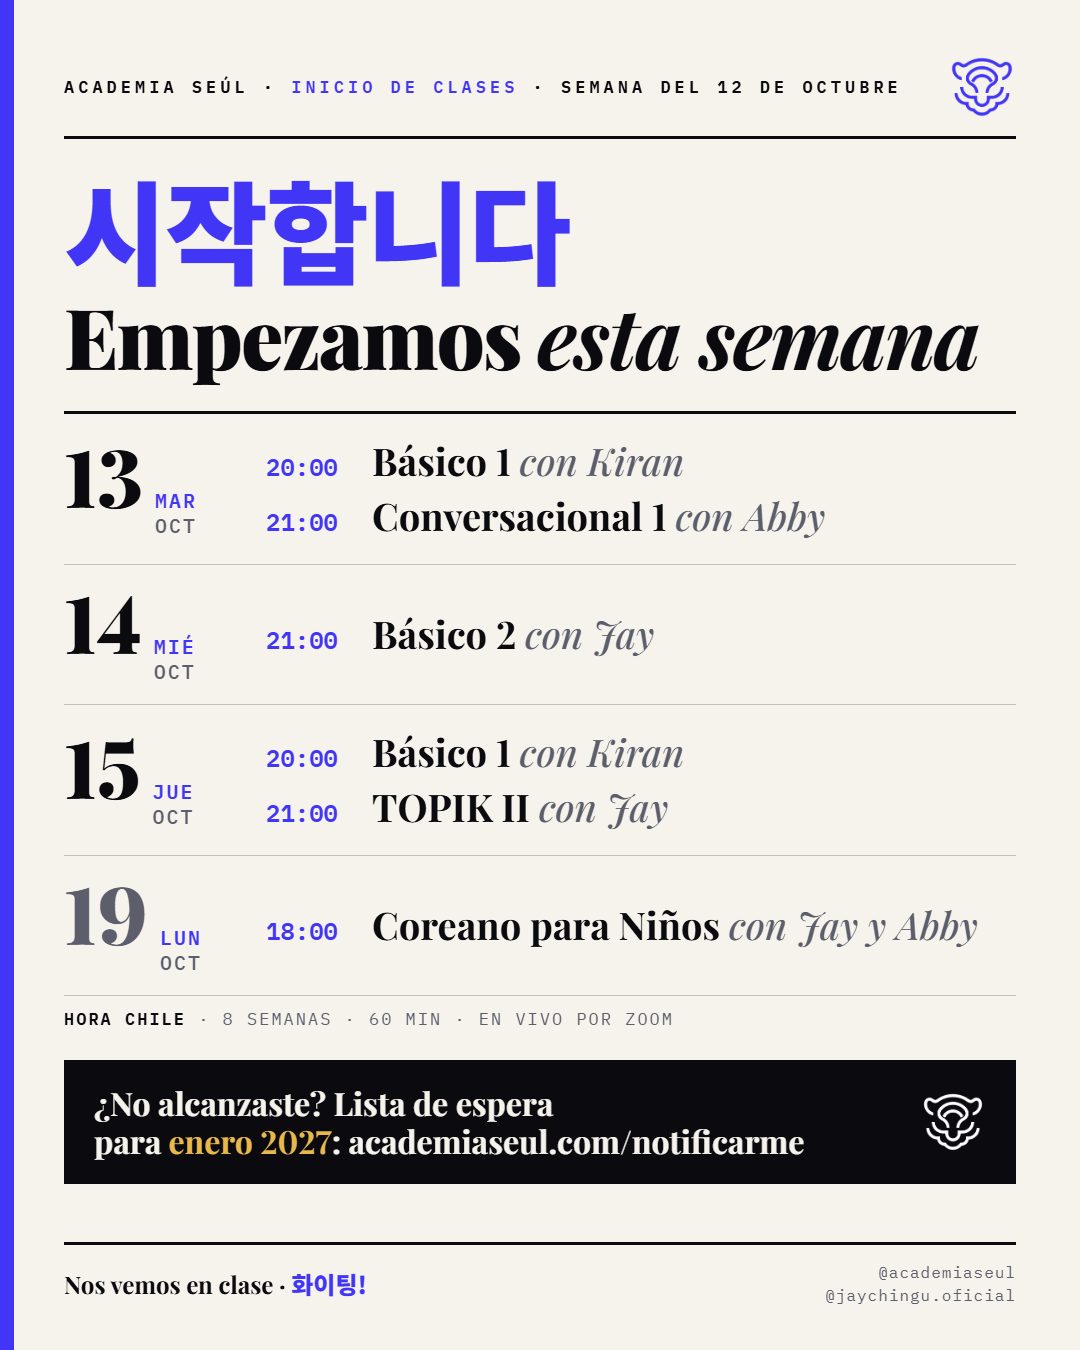
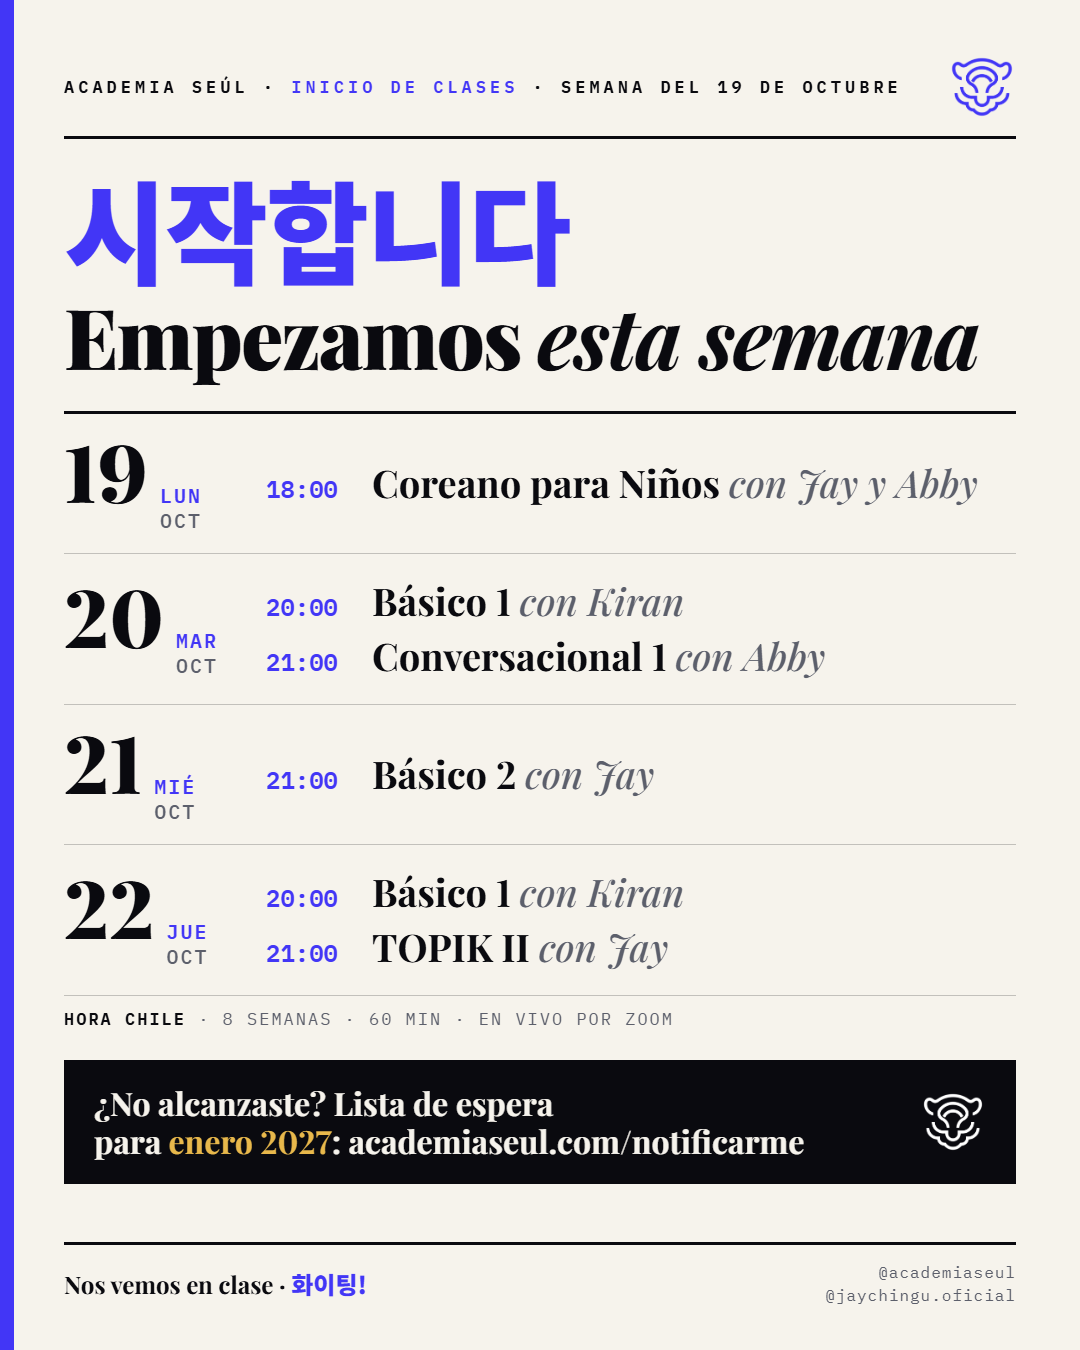
Instagram: cuenta regresiva al domingo 18 (09d, 09e, 09b, 09f), Empezamos con las fechas nuevas y plan del vie 16 al lun 19

diff --git a/Lanzamiento_Octubre_2026/fuente/make_disenos_octubre.js b/Lanzamiento_Octubre_2026/fuente/make_disenos_octubre.js
@@ -463,12 +463,13 @@ const clasesCSS = `
   .cl .p { font-size: 25px; font-style: italic; color: var(--muted); text-align: right; white-space: nowrap; }
   .cl .hc { font-family: 'IBM Plex Mono', monospace; font-size: 16px; color: var(--muted); letter-spacing: 2px; text-transform: uppercase; padding: 8px 0 0; border: 0; display: block; }
 `;
-const clasesHTML = () => `<div class="cl">${CLASES.map((c) => `<div><div class="dh">${c.dia} <span>${c.hora}</span></div>
+const clasesHTML = (lista = CLASES) => `<div class="cl">${lista.map((c) => `<div><div class="dh">${c.dia} <span>${c.hora}</span></div>
   <div class="c">${c.curso}<small>${c.nivel}</small>${c.nota ? `<span class="nt">${c.nota}</span>` : ""}</div><div class="p">${c.profe}</div></div>`).join("")}
   <div class="hc">hora Chile (UTC−3) · 8 semanas · 60 min · certificado incluido</div></div>`;
 
 // ttl: titular de 2 líneas (la 2.ª en cursiva azul). Variantes del 7 oct: cuenta regresiva jue 8 → sáb 10.
-function cierre(ttl = "ÚLTIMOS<br><em>DÍAS</em>") {
+// cuando/lista: la matrícula extendida (cierre dom 18, todas las clases desde la semana del 19) usa cierre(ttl, "domingo 18 · 23:59", CLASES_19)
+function cierre(ttl = "ÚLTIMOS<br><em>DÍAS</em>", cuando = "domingo 11 · 23:59", lista = CLASES) {
   const css = clasesCSS + `
   .ttl { font-family: 'Playfair Display', serif; font-weight: 900; font-size: 150px; line-height: 1.04; letter-spacing: -4px; margin: 56px 0 0; }
   .ttl em { font-style: italic; color: ${AZUL}; }
@@ -486,15 +487,15 @@ function cierre(ttl = "ÚLTIMOS<br><em>DÍAS</em>") {
   const body = `
   ${top("Matrícula", "Octubre 2026")}
   <h1 class="ttl">${ttl}</h1>
-  <div class="when">La matrícula de octubre cierra el<br><span class="nw"><span>domingo 11 · 23:59</span> <small>(Chile)</small></span></div>
-  ${clasesHTML()}
+  <div class="when">La matrícula de octubre cierra el<br><span class="nw"><span>${cuando}</span> <small>(Chile)</small></span></div>
+  ${clasesHTML(lista)}
   <div class="fee"><div class="a"><span>US$150</span> el curso completo · o 2 cuotas de <span>US$75</span></div></div>
   <div class="url"><div class="u">academiaseul.com/inscribete</div></div>`;
   return doc({ story: true, css, body });
 }
 
 // ttl/size: "ÚLTIMAS HORAS" (dom 11 en la noche) usa un titular más chico para que quepa en una línea por palabra
-function hoyCierra(ttl = "HOY<br><em>CIERRA</em>", size = 196) {
+function hoyCierra(ttl = "HOY<br><em>CIERRA</em>", size = 196, fecha = "Domingo 11 de octubre", lista = CLASES) {
   const css = clasesCSS + `
   .ttl { font-family: 'Playfair Display', serif; font-weight: 900; font-size: ${size}px; line-height: .9; letter-spacing: -5px; margin: 44px 0 0; }
   .ttl em { font-style: italic; color: ${GOLD2}; }
@@ -506,10 +507,10 @@ function hoyCierra(ttl = "HOY<br><em>CIERRA</em>", size = 196) {
   .bio svg { width: 54px; height: 54px; flex: none; }
   `;
   const body = `
-  ${top("Matrícula", "Domingo 11 de octubre")}
+  ${top("Matrícula", fecha)}
   <h1 class="ttl">${ttl}</h1>
   <div class="when"><div class="h">23:59</div><div class="z">hora Chile${size < 196 ? " · cierra hoy" : ""}</div></div>
-  ${clasesHTML()}
+  ${clasesHTML(lista)}
   <div class="bio"><div class="t">Link en la bio</div><svg data-deco viewBox="0 0 24 24" fill="none" stroke="${PAPER}" stroke-width="2.6" stroke-linecap="square"><path d="M12 21V4M5 11l7-7 7 7"/></svg></div>`;
   return doc({ story: true, css, body, dark: true });
 }
@@ -519,10 +520,10 @@ function hoyCierra(ttl = "HOY<br><em>CIERRA</em>", size = 196) {
 // ════════════════════════════════════════════════════════════════════════
 function empezamos() {
   const SEM = [
-    { dow: "mar", n: "13", clases: [["20:00", "Básico 1", "con Kiran"], ["21:00", "Conversacional 1", "con Abby"]] },
-    { dow: "mié", n: "14", clases: [["21:00", "Básico 2", "con Jay"]] },
-    { dow: "jue", n: "15", clases: [["20:00", "Básico 1", "con Kiran"], ["21:00", "TOPIK II", "con Jay"]] },
     { dow: "lun", n: "19", clases: [["18:00", "Coreano para Niños", "con Jay y Abby"]] },
+    { dow: "mar", n: "20", clases: [["20:00", "Básico 1", "con Kiran"], ["21:00", "Conversacional 1", "con Abby"]] },
+    { dow: "mié", n: "21", clases: [["21:00", "Básico 2", "con Jay"]] },
+    { dow: "jue", n: "22", clases: [["20:00", "Básico 1", "con Kiran"], ["21:00", "TOPIK II", "con Jay"]] },
   ];
   const css = `
   .ko { font-family: 'Noto Sans KR', sans-serif; font-weight: 900; font-size: 112px; line-height: 1.05; color: ${AZUL}; margin-top: 30px; letter-spacing: -2px; }
@@ -549,10 +550,10 @@ function empezamos() {
   .foot .cta .kr { font-family: 'Noto Sans KR', sans-serif; font-weight: 900; color: ${AZUL}; }
   `;
   const body = `
-  ${top("Inicio de clases", "Semana del 12 de octubre")}
+  ${top("Inicio de clases", "Semana del 19 de octubre")}
   <div class="ko">시작합니다</div>
   <h1 class="ttl">Empezamos <em>esta semana</em></h1>
-  <div class="wk">${SEM.map((s, i) => `<div class="${i === 3 ? "nx" : ""}"><div class="d"><div class="n">${s.n}</div><div class="w">${s.dow}<span>oct</span></div></div>
+  <div class="wk">${SEM.map((s) => `<div><div class="d"><div class="n">${s.n}</div><div class="w">${s.dow}<span>oct</span></div></div>
     <div class="cs">${s.clases.map((c) => `<div><div class="h">${c[0]}</div><div class="c">${c[1]} <span>${c[2]}</span></div></div>`).join("")}</div></div>`).join("")}</div>
   <div class="hc"><b>hora Chile</b> · 8 semanas · 60 min · en vivo por Zoom</div>
   <div class="espera"><div class="a">¿No alcanzaste? Lista de espera<br>para <span>enero 2027</span>: academiaseul.com/notificarme</div>${sello("wseal")}</div>
@@ -635,6 +636,11 @@ function unaSemanaMasFeed() {
 // ─── lista de diseños ───
 const DISENOS = [
   { file: "08_una_semana_mas_story.png", story: true, html: unaSemanaMasStory() },
+  // cuenta regresiva de la matrícula extendida (cierre dom 18 oct)
+  { file: "09d_quedan_2_dias_18_story.png", story: true, html: cierre("QUEDAN<br><em>2 DÍAS</em>", "domingo 18 · 23:59", CLASES_19) },
+  { file: "09e_manana_cierra_18_story.png", story: true, html: cierre("MAÑANA<br><em>CIERRA</em>", "domingo 18 · 23:59", CLASES_19) },
+  { file: "09b_hoy_cierra_18_story.png", story: true, html: hoyCierra("HOY<br><em>CIERRA</em>", 196, "Domingo 18 de octubre", CLASES_19) },
+  { file: "09f_ultimas_horas_18_story.png", story: true, html: hoyCierra("ÚLTIMAS<br><em>HORAS</em>", 168, "Domingo 18 de octubre", CLASES_19) },
   { file: "08_una_semana_mas.png", story: false, html: unaSemanaMasFeed() },
   { file: "00_chuseok_story.png", story: true, html: chuseok() },
   { file: "01_reto_leocoreanoen7dias.png", story: false, html: retoFeed() },

diff --git a/Plan_Instagram_16al19oct_2026.md b/Plan_Instagram_16al19oct_2026.md
@@ -1,0 +1,77 @@
+# Plan de Instagram y TikTok · vie 16 → lun 19 de octubre de 2026
+
+Horas de Chile. **Manda sobre `Plan_Instagram_7al12oct_2026.md`** desde el 16 de octubre: la matrícula se corrió una semana (cierra el **domingo 18 a las 23:59**) y todas las clases empiezan la **semana del 19 de octubre** (Niños lun 19 · Básico 1 mar 20 y jue 22 · Conversacional 1 mar 20 · Básico 2 mié 21 · TOPIK II jue 22).
+
+Las piezas viejas de cuenta regresiva (`05b`–`05f`) dicen «domingo 11»: **no las uses**. Las nuevas son `09d`, `09e`, `09b` y `09f`, en `Campana_Assets/instagram/octubre/`. Todas las historias llevan el sticker de link `Inscribirme` → `https://www.academiaseul.com/inscribete`.
+
+## Vista rápida
+
+| Día | Feed | Historias | TikTok |
+|---|---|---|---|
+| **Vie 16** | `08_una_semana_mas.png`, si no lo subiste el lunes (fíjalo) | 12:30 `09d_quedan_2_dias_18_story.png` · 20:00 artículo «tu nombre en coreano» | El post `08` en modo foto |
+| **Sáb 17** | — | 12:30 `09e_manana_cierra_18_story.png` · 20:00 reel de Kiran + texto | Reel de Kiran (si no está) |
+| **Dom 18** · CIERRE | — | 10:00 `09b_hoy_cierra_18_story.png` · 16:00 WhatsApp · 19:00 `09f_ultimas_horas_18_story.png` · 22:30 `09f` + «Hora y media ⏳» | — |
+| **Lun 19** | 19:30 `06_empezamos_esta_semana.png`, solo con las clases que abrieron | 10:00 bienvenida | — |
+
+## Vie 16
+
+**Feed** (solo si no subiste el `08` el lunes): el caption está en el plan del 12 de octubre (sección del lunes). Fíjalo.
+
+**Historias**
+- 12:30 · `09d_quedan_2_dias_18_story.png` + `Inscribirme`.
+- 20:00 · captura del artículo nuevo del blog con el texto `¿Cómo se escribe tu nombre en coreano? 👇` + sticker de link → `https://www.academiaseul.com/blog/como-escribir-tu-nombre-en-coreano`. Agrega una encuesta: `¿Ya sabías el tuyo? Sí / No`.
+
+**TikTok** (modo foto con el `08`):
+```
+Abrimos una semana más 🇰🇷 Clases de coreano en vivo por Zoom desde el 19 de octubre. Matrícula hasta el domingo 18: academiaseul.com/inscribete #aprendecoreano #coreanodesdecero #academiaseul #한국어
+```
+
+## Sáb 17
+
+**Historias**
+- 12:30 · `09e_manana_cierra_18_story.png` + `Inscribirme`.
+- 20:00 · comparte el reel de Kiran con el texto `Básico 1 desde cero con Kiran · martes 20 · 20:00 (hora de Chile)` + `Inscribirme` → `https://www.academiaseul.com/inscribete?clase=a11-martes`.
+
+**TikTok**, si el reel de Kiran todavía no está ahí:
+```
+Ella es Kiran, tu profe de coreano desde cero 🇰🇷🇦🇷 Empezamos el martes 20 de octubre, en vivo por Zoom. Inscripción hasta el domingo 18: academiaseul.com/inscribete #aprendecoreano #coreanodesdecero #academiaseul #한국어
+```
+
+## Dom 18 · cierre a las 23:59 (sin feed)
+
+| Hora | Pieza | Texto encima | Link |
+|---|---|---|---|
+| 10:00 | `09b_hoy_cierra_18_story.png` | (ya dice todo) | `Inscribirme` |
+| 16:00 | fondo azul o el reel de Kiran | `¿Dudas de último minuto? Escríbeme 👇` | `WhatsApp` → `https://wa.me/56942115562` |
+| 19:00 | `09f_ultimas_horas_18_story.png` | (ya dice todo) | `Inscribirme` |
+| 22:30 | `09f_ultimas_horas_18_story.png` | `Hora y media ⏳` | `Inscribirme` |
+
+- [ ] Noche: revisión clase por clase (mínimo 3). Con eso se decide el post del lunes y qué clases parten.
+
+## Lun 19
+
+- [ ] 19:30 · feed `06_empezamos_esta_semana.png` **solo si abren las clases que muestra** (si alguna no abre, avísame y lo rehago con las que sí). Caption:
+```
+시작합니다 · Empezamos esta semana 🐯
+
+Lun 19 · 18:00 · Coreano para Niños con Jay y Abby
+Mar 20 · 20:00 · Básico 1 con Kiran · 21:00 · Conversacional 1 con Abby
+Mié 21 · 21:00 · Básico 2 con Jay
+Jue 22 · 20:00 · Básico 1 con Kiran · 21:00 · TOPIK II con Jay
+
+Gracias a cada persona que se sumó 💙 Nos vemos en clase. 화이팅!
+¿No alcanzaste? Lista de espera para enero 2027: academiaseul.com/notificarme
+
+#academiaseul #aprendecoreano #coreanoparalatinos #한국어
+```
+- [ ] 10:00 · historia: `Bienvenidos a las clases de octubre 💙 Revisen su correo: ahí está todo para su primera clase.`
+- [ ] Sitio a lista de espera: decisión tuya, después del cierre del domingo.
+
+## Contenido del blog para las próximas semanas (historias con link)
+
+Los 5 artículos nuevos (15 oct) sirven como historias entre semana, una por día, con sticker de link:
+- **Pepero Day** · `/blog/pepero-day-11-de-noviembre-en-corea`: subir la semana del 9 de noviembre (el 11/11).
+- **수능** · `/blog/suneung-el-dia-que-corea-se-detiene`: subir el miércoles 18 o el jueves 19 de noviembre.
+- **15 frases de K-drama** · `/blog/frases-de-kdrama-en-coreano`: cualquier día, con encuesta «¿Cuál usas más?».
+- **Números en coreano** · `/blog/numeros-en-coreano-dos-sistemas`: con un quiz de historia («¿Cómo se dice 3:30 en coreano?»).
+- **Tu nombre en coreano** · `/blog/como-escribir-tu-nombre-en-coreano`: ya va el viernes 16.
